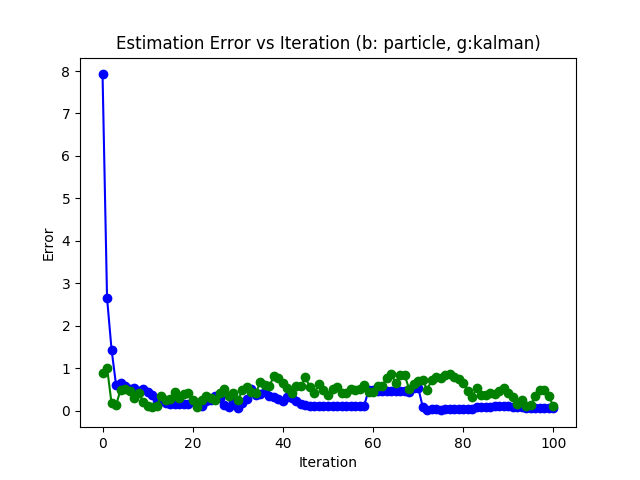
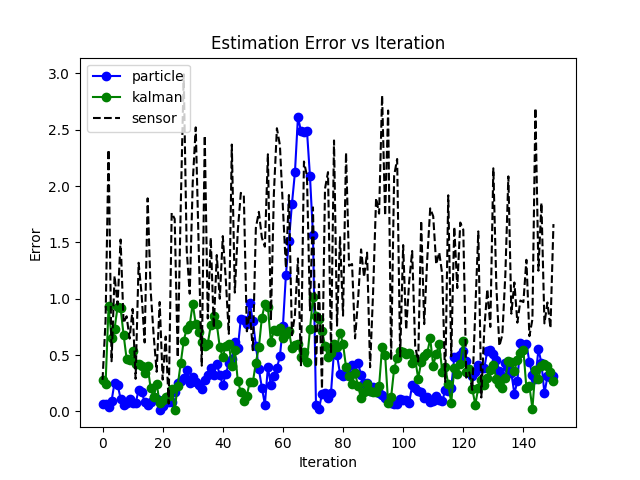
change plots

diff --git a/demo.py b/demo.py
@@ -255,6 +255,7 @@ def particle_KF_demo(env_option=0, use_EKF=0):
     KF_hit_count = 0.
     particle_err_list = []
     KF_err_list = []
+    sense_err_list = []
 
     start = time.clock()
 
@@ -293,12 +294,15 @@ def particle_KF_demo(env_option=0, use_EKF=0):
 
 
     ## particle init
-    M = 300 # initial M
-    Xt_1 = implement.initial_sampling(env, robot, M = M)
+    M = 100 # initial M
+    Xt_1 = implement.initial_sampling2(env, robot, position, noise = 0.5, M = M)
     M = len(Xt_1)
     points3.append(env.plot3(points= array(Xt_1),
                                 pointsize=5.0,
                                 colors=array((1,1,0))))
+    with env:
+        robot.SetActiveDOFValues(position)
+    waitrobot(robot)
 
     time.sleep(0.5)
     print("Red points: true locations.")
@@ -342,7 +346,7 @@ def particle_KF_demo(env_option=0, use_EKF=0):
             step = 1.0
             heading = [path[0][0] - position[0], path[0][1] - position[1]]
             pre_position = position
-            if random.uniform(0, 1) > 0.08:
+            if random.uniform(0, 1) > 0.15:
                 print "error"
                 position = path[0]
                 del path[0]
@@ -350,7 +354,7 @@ def particle_KF_demo(env_option=0, use_EKF=0):
             print "motion", motion
         else:
             pre_position = position
-            position, is_wall = implement.Move_with_error(env, robot, position, heading, step = step, error = 0.08)
+            position, is_wall = implement.Move_with_error(env, robot, position, heading, step = step, error = 0.15)
             motion = np.array(position) - np.array(pre_position)
             print "motion", motion
         
@@ -367,10 +371,10 @@ def particle_KF_demo(env_option=0, use_EKF=0):
                 # print "heading = ", heading
                 # print "step = ", step
                 # print xm
-                xm, xm_is_wall = implement.Move_with_error2(env, robot, Xt_1[i], heading, step = step, error = 0.08)
+                xm, xm_is_wall = implement.Move_with_error2(env, robot, Xt_1[i], heading, step = step, error = 0.15)
                 # print xm
             else:
-                xm, xm_is_wall = implement.Move_with_error(env, robot, Xt_1[i], heading, step = step, error = 0.08)
+                xm, xm_is_wall = implement.Move_with_error(env, robot, Xt_1[i], heading, step = step, error = 0.15)
             w = implement.calculate_posibility2(xm, sensed_position)
             Weight.append(w)
             Xt.append(xm)
@@ -423,6 +427,9 @@ def particle_KF_demo(env_option=0, use_EKF=0):
             handles.append(env.drawlinestrip(points=array((sensed_position,(0,0,0.5))),
                                            linewidth=5.0,
                                            colors=array((1,0,0,1))))
+            points.append(env.plot3(points= array(sensed_position),
+                                pointsize=5.0,
+                                colors=array((0,0,1))))
 
         ## KF filter ends
 
@@ -454,6 +461,9 @@ def particle_KF_demo(env_option=0, use_EKF=0):
         points.append(env.plot3(points= array(position),
                                 pointsize=5.0,
                                 colors=array((1,0,0))))
+        points.append(env.plot3(points= array(mean_config),
+                                pointsize=5.0,
+                                colors=array((0,1,1))))
 
         ## For analysis
         particle_time_list.append((particle_end - particle_start))
@@ -466,6 +476,7 @@ def particle_KF_demo(env_option=0, use_EKF=0):
 
         particle_err_list.append(sqrt(sum(abs(array(mean_config) - array(position)) ** 2)))
         KF_err_list.append(sqrt(sum(abs(array(KF_x) - array(position)) ** 2)))
+        sense_err_list.append(sqrt(sum(abs(array(sensed_position) - array(position)) ** 2)))
 
         # set back to current location
         with env:
@@ -475,13 +486,13 @@ def particle_KF_demo(env_option=0, use_EKF=0):
         # end iteration
         count += 1
         time.sleep(0.1)
-        if (count > 100):
+        if (count > 150):
             break
         
     end = time.clock()
     print "Time: ", end - start
     print KF_hit_count, particle_hit_count
-    implement.demo_analysis(particle_time_list, KF_time_list, particle_err_list, KF_err_list, particle_hit_count, KF_hit_count, count)
+    implement.demo_analysis(particle_time_list, KF_time_list, particle_err_list, KF_err_list, sense_err_list, particle_hit_count, KF_hit_count, count)
 
     waitrobot(robot)
 

diff --git a/implement.py b/implement.py
@@ -242,6 +242,24 @@ def initial_sampling(env, robot, xlimits = [-10, 10], ylimits = [-10, 10], M = 1
 
     return points
 
+def initial_sampling2(env, robot, location, noise = 1.0, xlimits = [-10, 10], ylimits = [-10, 10], M = 100):
+    points = []
+    for i in range(M):
+        x = random.normal(0, noise) + location[0]
+        y = random.normal(0, noise) + location[1]
+        config = [x, y, 0.05]
+        if (not is_collision(env, robot, config)):
+            points.append(config)
+
+    while len(points) == 0:
+        x = random.normal(0, noise) + location[0]
+        y = random.normal(0, noise) + location[1]
+        config = [x, y, 0.05]
+        if (not is_collision(env, robot, config)):
+            points.append(config)
+
+    return points
+
 def get_possibility(env, robot, location, heading, is_wall):
     p = 1
     neighbors = getNeighbors(location)
@@ -306,7 +324,7 @@ def calculate_posibility(position, sensed_position, true_distances, xm_distances
             return 0.005 * diff
 
 def calculate_posibility2(position, sensed_position, step = STEP):
-    return 1.0 / (sqrt(sum((array(position) - array(sensed_position)) ** 2)) + 0.15)
+    return 1.0 / (sqrt(sum((array(position) - array(sensed_position)) ** 2)) + 0.2)
 
 
 NOISE = 0.4
@@ -495,7 +513,7 @@ def Astar(env, robot, startconfig, goalconfig, step = 0.25):
     return plot
 
 
-def demo_analysis(particle_time_list, KF_time_list, particle_err_list, KF_err_list, particle_hit_count, KF_hit_count, count):
+def demo_analysis(particle_time_list, KF_time_list, particle_err_list, KF_err_list, sense_err_list, particle_hit_count, KF_hit_count, count):
     print ""
     print "Analysis:"
 
@@ -519,13 +537,15 @@ def demo_analysis(particle_time_list, KF_time_list, particle_err_list, KF_err_li
     plt.show()
 
     plt.figure()
-    plt.plot([i for i in range(len(particle_err_list))], particle_err_list, 'bo-')
+    plt.plot([i for i in range(len(particle_err_list))], particle_err_list, 'bo-', label = 'particle')
     KF_err_list = np.squeeze(np.asarray(KF_err_list))
-    plt.plot([i for i in range(len(KF_err_list))], KF_err_list, 'go-')
+    plt.plot([i for i in range(len(KF_err_list))], KF_err_list, 'go-', label = 'kalman')
+    plt.plot([i for i in range(len(sense_err_list))], sense_err_list, 'k--', label = 'sensor')
     plt.xlabel('Iteration')
     plt.ylabel('Error')
-    plt.title('Estimation Error vs Iteration (b: particle, g:kalman)')
-    plt.savefig('Estimation Error vs Iteration (b: particle, g:kalman).png')
+    plt.legend(loc='upper left')
+    plt.title('Estimation Error vs Iteration')
+    plt.savefig('Estimation Error vs Iteration.png')
     plt.show()
 
 
